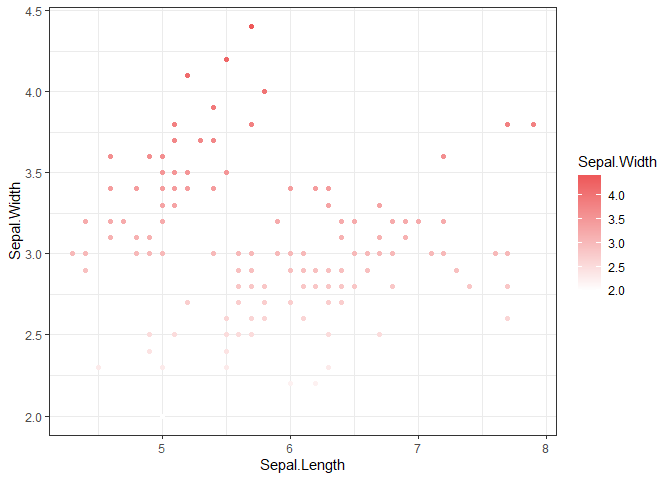
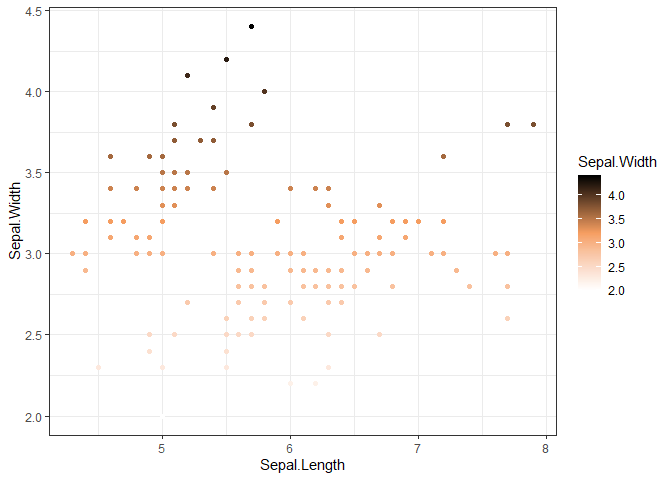
add dataset, update readme, new fig

diff --git a/README.md b/README.md
@@ -44,6 +44,26 @@ iris %>%
 
 <img src="man/figures/README-discrete_color-1.png" width="100%" />
 
+Often when assessment data is crunched (via butteR or HypegrammaR) the
+results are a long format data set. These long format datasets are also
+very easily piped into ggplot. The **scale\_fill\_reach** function will
+fill barplot with REACH-palette colors
+
+``` r
+assessment_results %>% 
+  filter(variable=="i.income_cat") %>% 
+  ggplot(aes(x=variable_val,y=`mean/pct`, fill=subset_1_val))+
+  geom_bar(stat="identity",position=position_dodge(width=0.9))+
+  coord_flip()+
+  scale_fill_reach()+
+  theme_bw()+
+  theme(
+    legend.title = element_blank()
+  )
+```
+
+<img src="man/figures/README-assessment_results_discrete-1.png" width="100%" />
+
 ### Continuous color scale
 
 To get a continuous color scale you need to specify discrete as F and
@@ -53,7 +73,7 @@ specify a REACH palette you want to use
 iris %>% 
   ggplot(aes(x=Sepal.Length,y=Sepal.Width, color=Sepal.Width))+
   geom_point()+
-  scale_color_reach(palette = "reds",discrete = F)+
+  scale_color_reach(palette = "oranges",discrete = F)+
   theme_bw()
 ```
 
